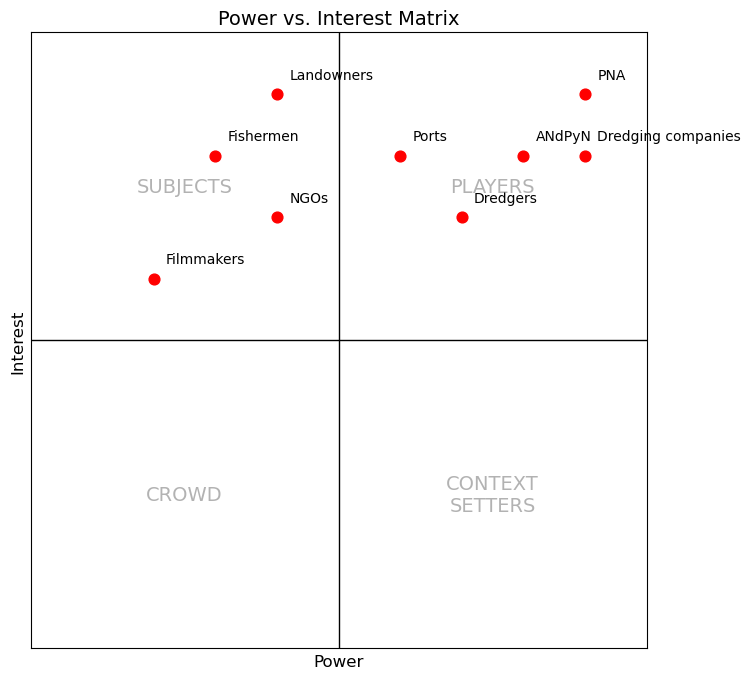
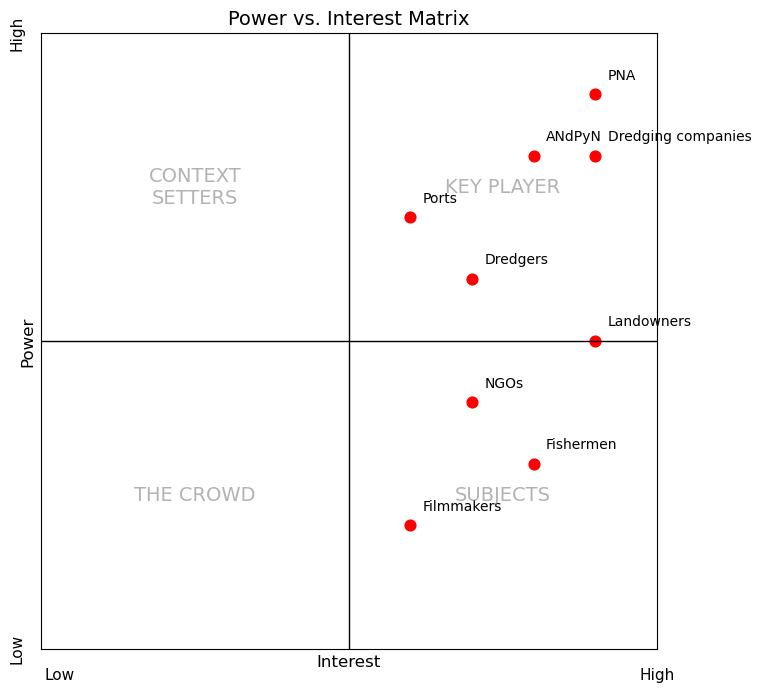
Update on Overleaf.

diff --git a/mainmatter/chapter-3.tex b/mainmatter/chapter-3.tex
@@ -3,7 +3,7 @@
 
 This chapter explains the stakeholders related to Rio Paraná Guazú, focusing on their interests in sand dredging activities. The interests and goals of the stakeholders are explained, and a power versus interest matrix evaluates their relevance to the project.
 
-\section{Stakeholders}
+\section{Stakeholders interest and power}
 
 All relevant stakeholders were identified for this project, some suggested by INA staff and others through further investigation. The complete list is in Table \ref{tab:stakeholders} and will be discussed in the following sections. The stakeholder descriptions are in Table \ref{tab:stakeholders-description}, and their interests and goals in Table \ref{tab:stakeholders-interests-goals}.
 
@@ -13,7 +13,7 @@ All relevant stakeholders were identified for this project, some suggested by IN
 \centering
 \begin{tabularx}{\linewidth}{p{3.5cm}X} % narrower first column
 \toprule
-\textbf{Stakeholder} & \textbf{Role} \\
+\textbf{Stakeholders} & \textbf{Role} \\
 \midrule
 Dredgers & Extraction of sand and gravel from shallow river areas. \\
 \midrule
@@ -44,7 +44,7 @@ Filmmakers & Filmmakers documenting trade and social impacts of the Paraná–Pa
 \centering
 \begin{tabularx}{\linewidth}{p{3.5cm}X} % fixed width first column
 \toprule
-\textbf{Stakeholder} & \textbf{Description} \\
+\textbf{Stakeholders} & \textbf{Description} \\
 \midrule
 Dredgers & Dredgers are local boats that extract sand and gravel from the Paraná Guazú, ranging from small independent vessels to organized groups of boats (areneros) and larger hopper ships. They operate mainly in shallow areas where simple extraction methods are possible, transporting the material to nearby ports such as Ibicuy or Brazo Largo. \\
 \midrule
@@ -69,13 +69,13 @@ Filmmakers & Alejo Di Risio is a filmmaker who directed a documentary on the Par
 \label{tab:stakeholders-description}
 \end{table}
 
-\subsubsection{Stakeholder interests, problem perception and goal}
+\subsubsection{Stakeholders interest and goal}
 
 \begin{table}[H]
 \centering
 \begin{tabularx}{\linewidth}{p{3.5cm}XX}
 \toprule
-\textbf{Stakeholder} & \textbf{Interest} & \textbf{Goals} \\
+\textbf{Stakeholders} & \textbf{Interest} & \textbf{Goal} \\
 \midrule
 Dredgers & Access to shallow river areas for sand extraction. & Sell extracted sand to nearby ports and local markets for income. \\
 \midrule
@@ -96,11 +96,15 @@ Landowners & - & -\\
 Filmmakers & Research and documentation of waterway dynamics. & Raise awareness through film on trade, impacts, and stakeholder activities. \\
 \bottomrule
 \end{tabularx}
-\caption{Stakeholders with interests and goals}
+\caption{Stakeholders interest and goal}
 \label{tab:stakeholders-interests-goals}
 \end{table}
 
-\subsection{Power vs. interest}
+\section{Stakeholders management}
+
+
+
+\subsubsection{Power vs. Interest}
 
 After identifying stakeholders, it is important to evaluate their power and interest in the project. This is visualized using a power versus interest matrix, with power on the vertical axis and interest on the horizontal axis. Analyzing this matrix informs strategies to approach specific stakeholders.
 
@@ -112,12 +116,6 @@ The power vs. interest matrix is divided into four parts. These parts can be see
     \caption{Power versus Interest matrix}
     \label{fig:power-interest}
 \end{figure}
-
-
-\subsection{Relations}
-
-
-
 
 \section{Conclusion}
 

diff --git a/mainmatter/chapter-7.tex b/mainmatter/chapter-7.tex
@@ -27,3 +27,13 @@ Although NBS are widely known in the scientific world, most people have never he
 
 
 \section{Bed and bank protection measures}
+
+
+belangrijke/interessante info over deltas en wetlands:
+The Paraná Delta, the end of the Paraná-Paraguay river wetland system, begins in the city of Diamante in Entre Ríos province. It stretches for 300 kilometres and covers some 2.3 million hectares. Dotted with islands, these wetlands are a source of ecosystem services such as flood and drought buffering, water purification, erosion control and coastal protection, climate regulation, as well as the provision of shelter, feeding and breeding sites for various wildlife species. It also provides resources including fish, foraging, timber, medicine, and materials for construction and clothing.
+
+In recent years, wetlands have become increasingly important for another key reason: their role as allies against climate change. They improve the resilience of communities to its impacts, serve as natural barriers against floods and droughts, and also function as carbon sinks. Despite playing these important roles, these ecosystems remain under great threat from human action – it is estimated that globally, 85percent of the wetlands that existed three centuries ago have been destroyed or drastically transformed. 
+
+https://dialogue.earth/en/climate/on-the-parana-river-ecological-crisis-is-a-threat-to-its-identity/
+
+
